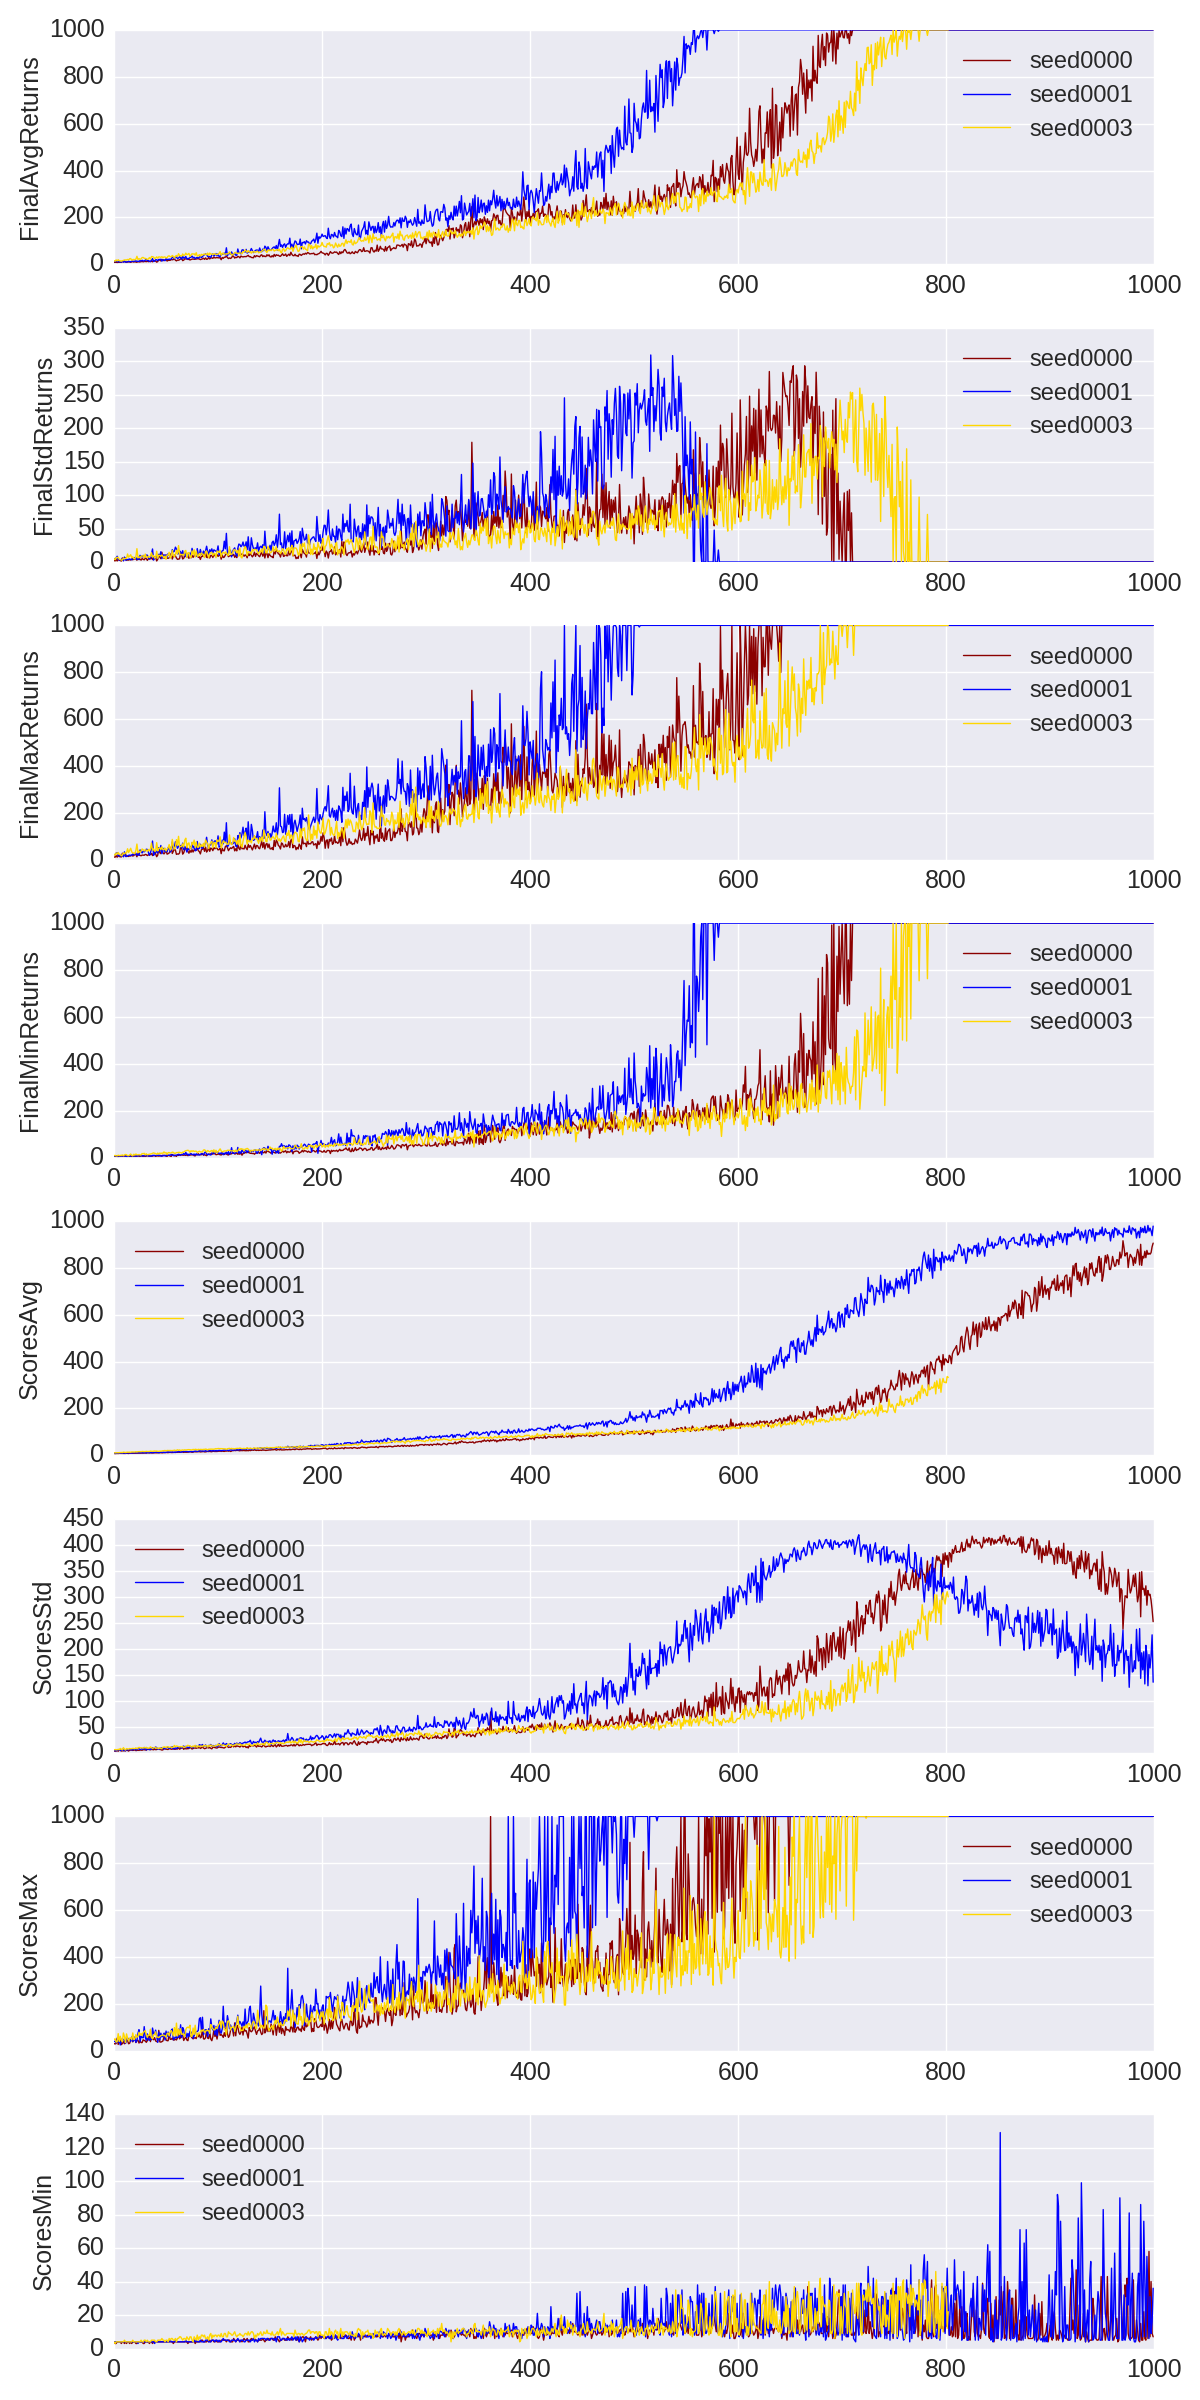
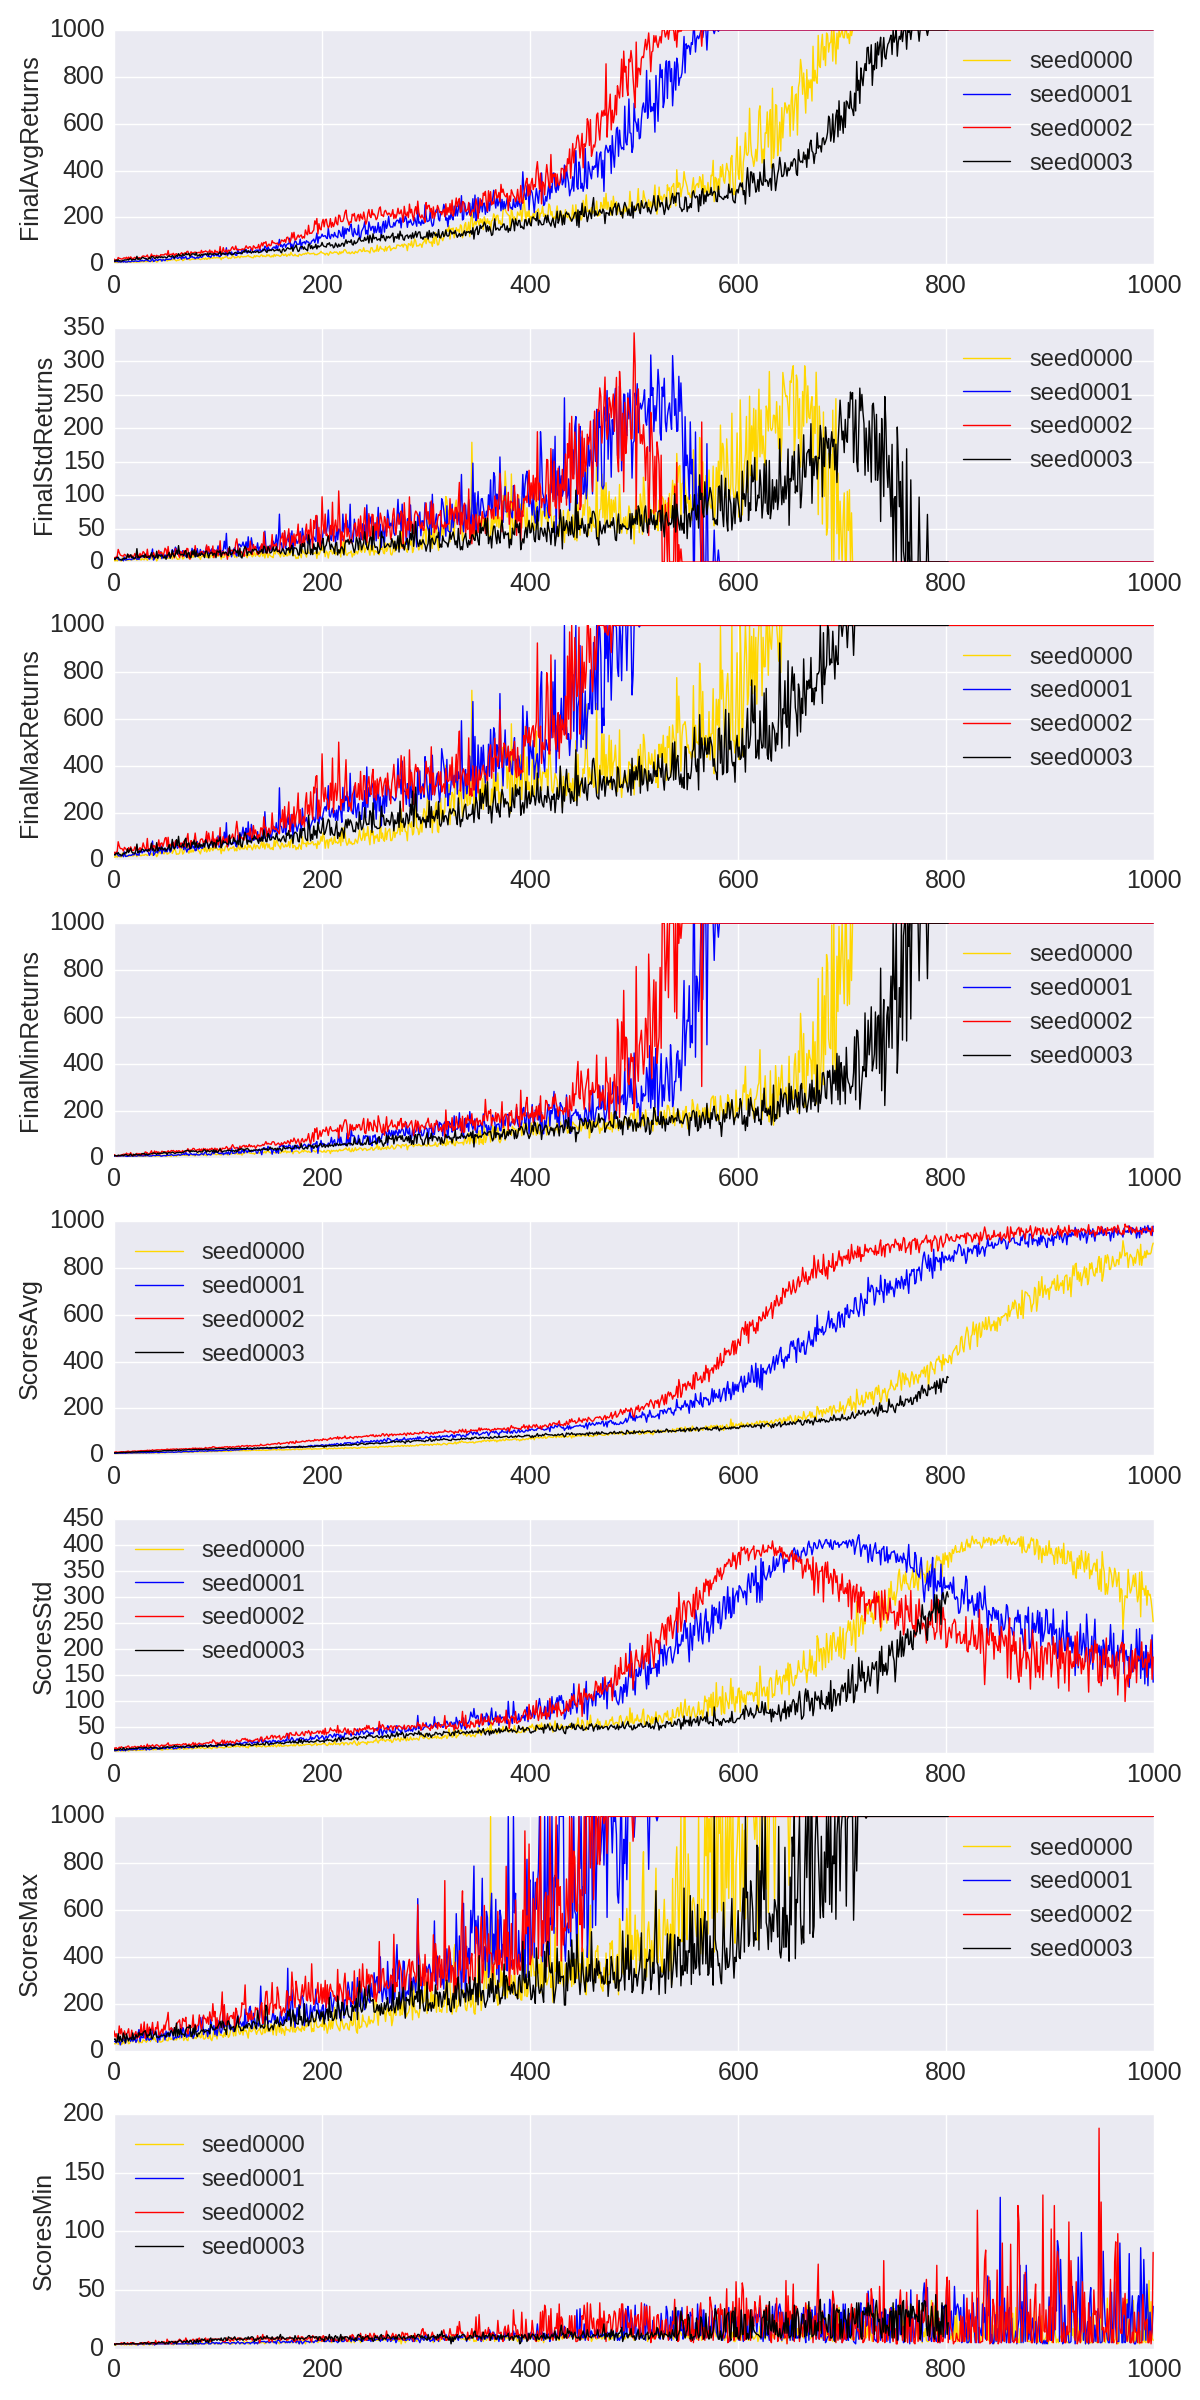
Updated ES with IP with another run, this one seems to be the best. BUT ...
now I will try WITHOUTthe gaussian sampling. But for expert trajectories, use seed 0002

diff --git a/es/es.py b/es/es.py
@@ -223,14 +223,14 @@ class ESAgent:
             # Report relevant logs.
             if (i % args.log_every_t_iter == 0):
                 minutes = (time.time()-t_start) / 60.
-                logz.log_tabular("ScoresAvg",        np.mean(scores_n2))
-                logz.log_tabular("ScoresStd",        np.std(scores_n2))
-                logz.log_tabular("ScoresMax",        np.max(scores_n2))
-                logz.log_tabular("ScoresMin",        np.min(scores_n2))
                 logz.log_tabular("FinalAvgReturns",  np.mean(returns))
                 logz.log_tabular("FinalStdReturns",  np.std(returns))
                 logz.log_tabular("FinalMaxReturns",  np.max(returns))
                 logz.log_tabular("FinalMinReturns",  np.min(returns))
+                logz.log_tabular("ScoresAvg",        np.mean(scores_n2))
+                logz.log_tabular("ScoresStd",        np.std(scores_n2))
+                logz.log_tabular("ScoresMax",        np.max(scores_n2))
+                logz.log_tabular("ScoresMin",        np.min(scores_n2))
                 logz.log_tabular("TotalTimeMinutes", minutes)
                 logz.log_tabular("TotalIterations",  i)
                 logz.dump_tabular()

diff --git a/es/plot.py b/es/plot.py
@@ -50,7 +50,7 @@ ENV_TO_YLABELS = {"HalfCheetah-v1": [-800,1000],
                   "InvertedPendulum-v1": [0,1000]}
 
 # Colors. In general we won't use all of these.
-COLORS = ['darkred', 'blue', 'gold']
+COLORS = ['gold', 'blue', 'red', 'black']
 
 def plot_one_dir(args, directory):
     """ The actual plotting code.
